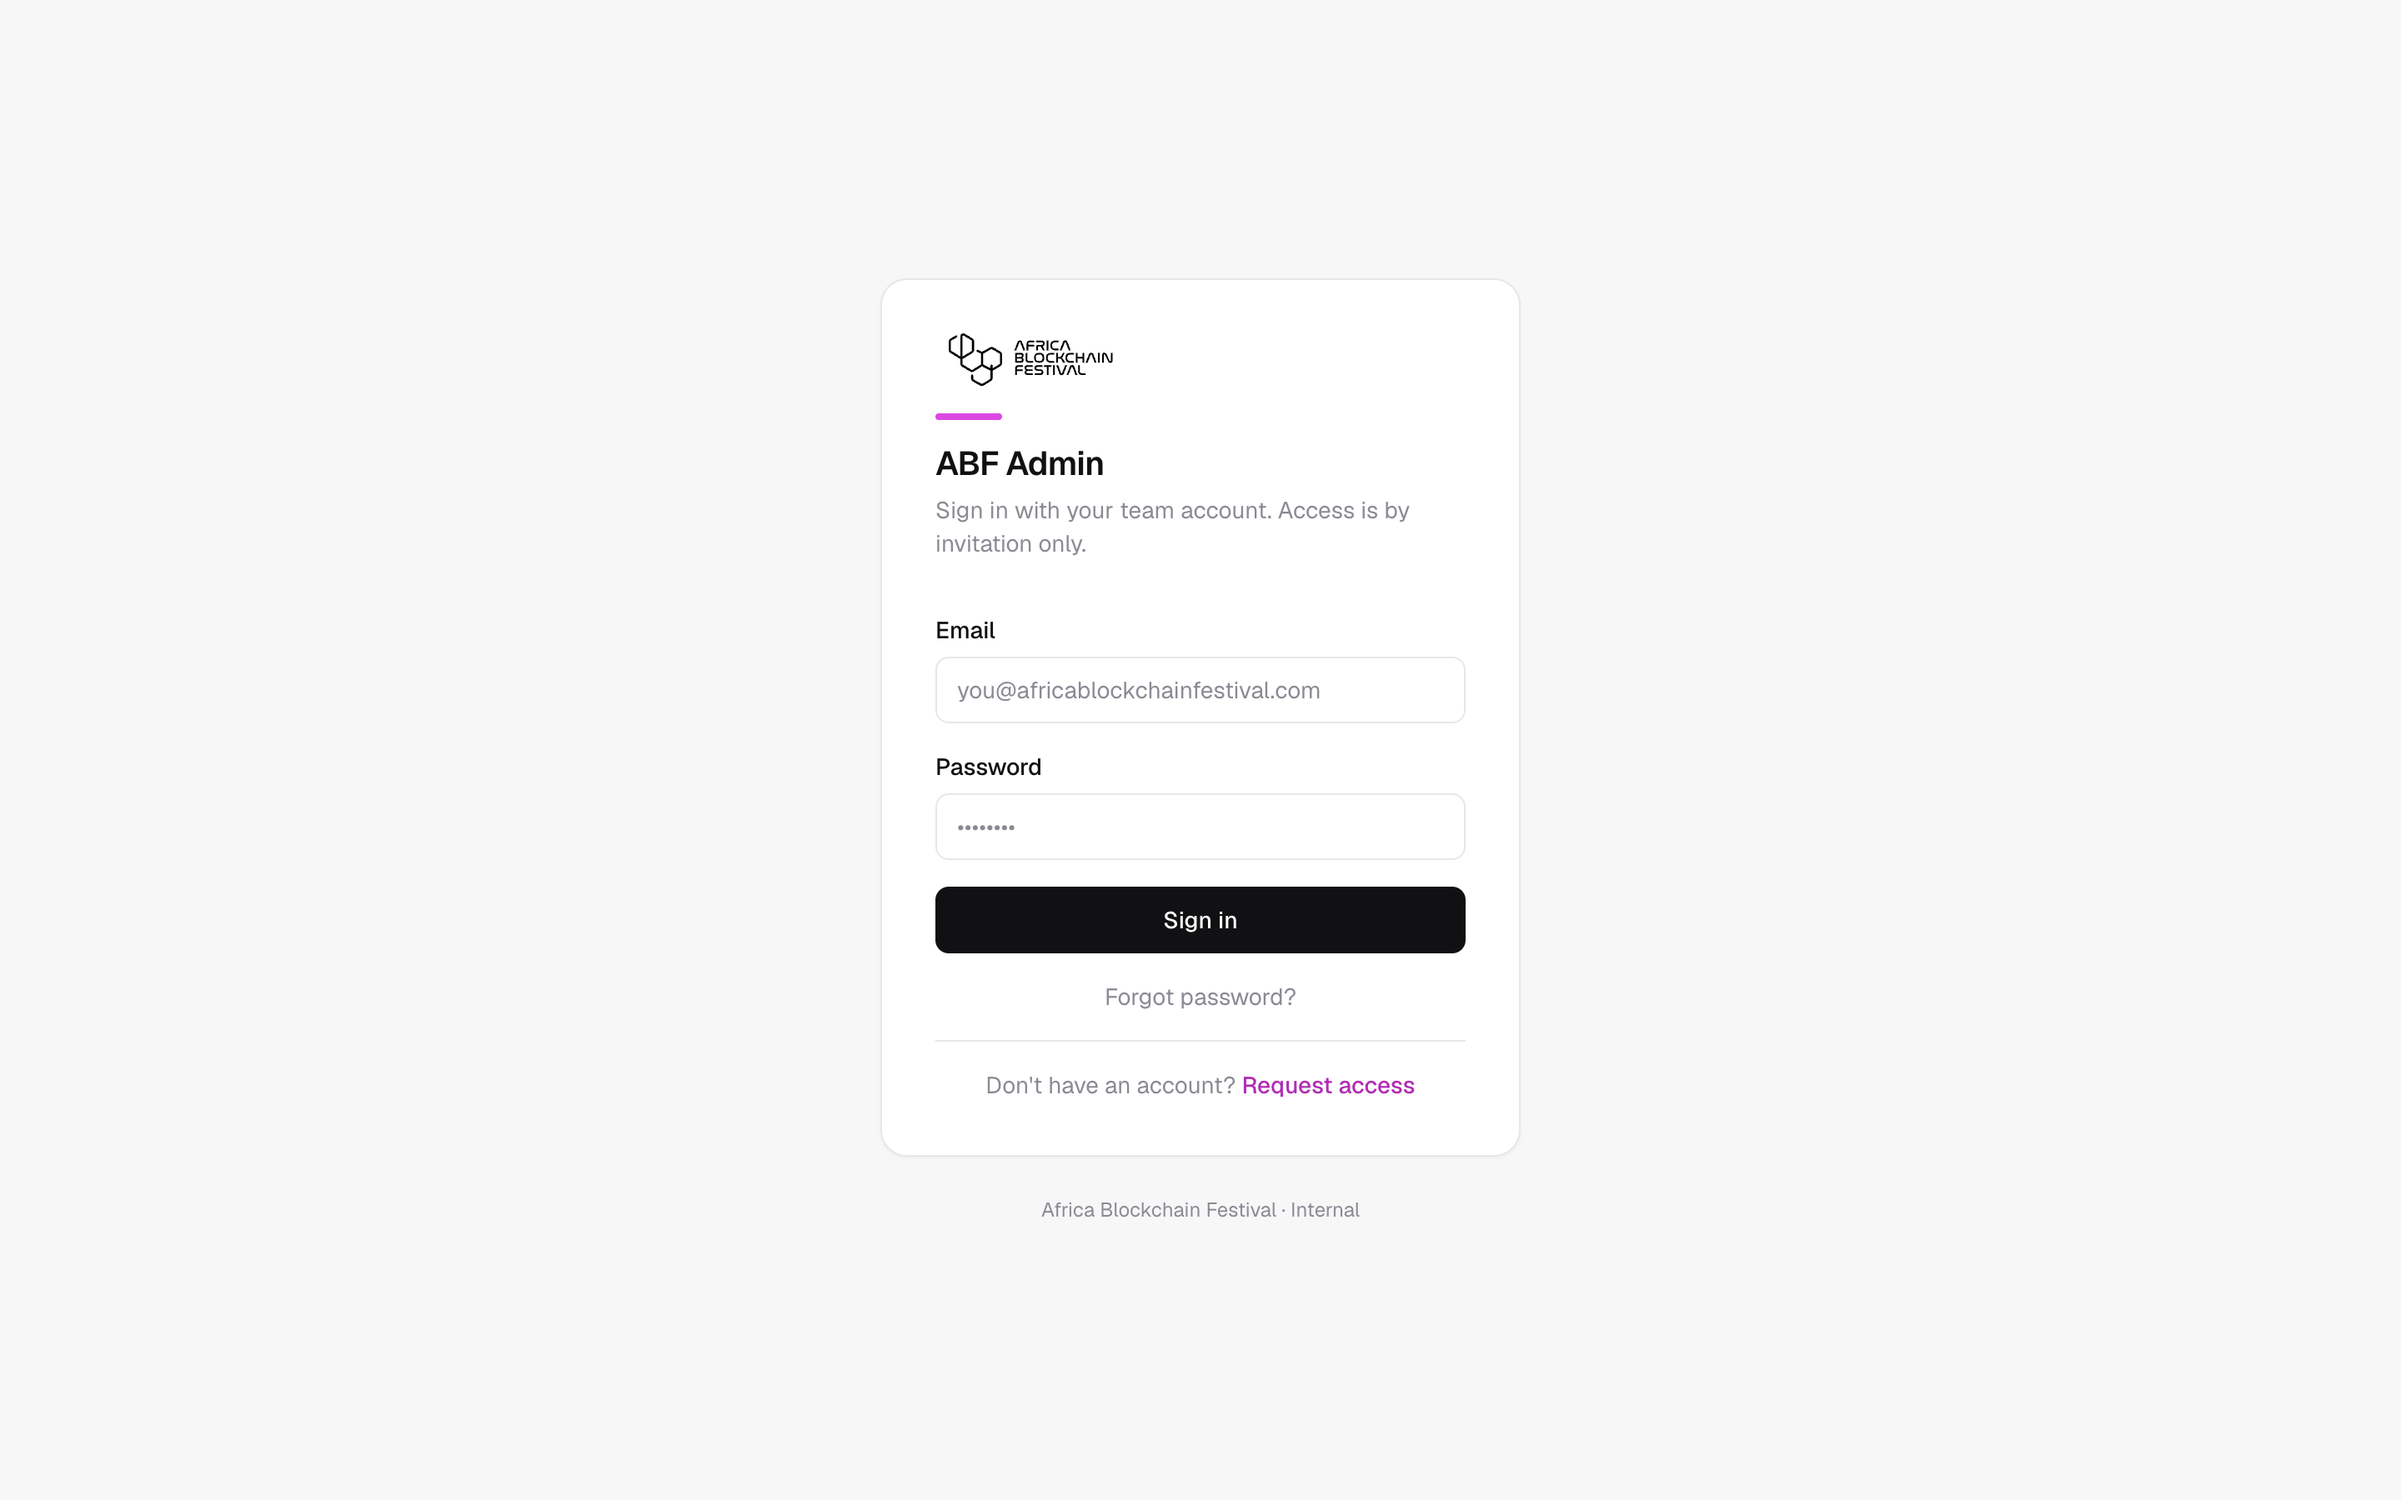
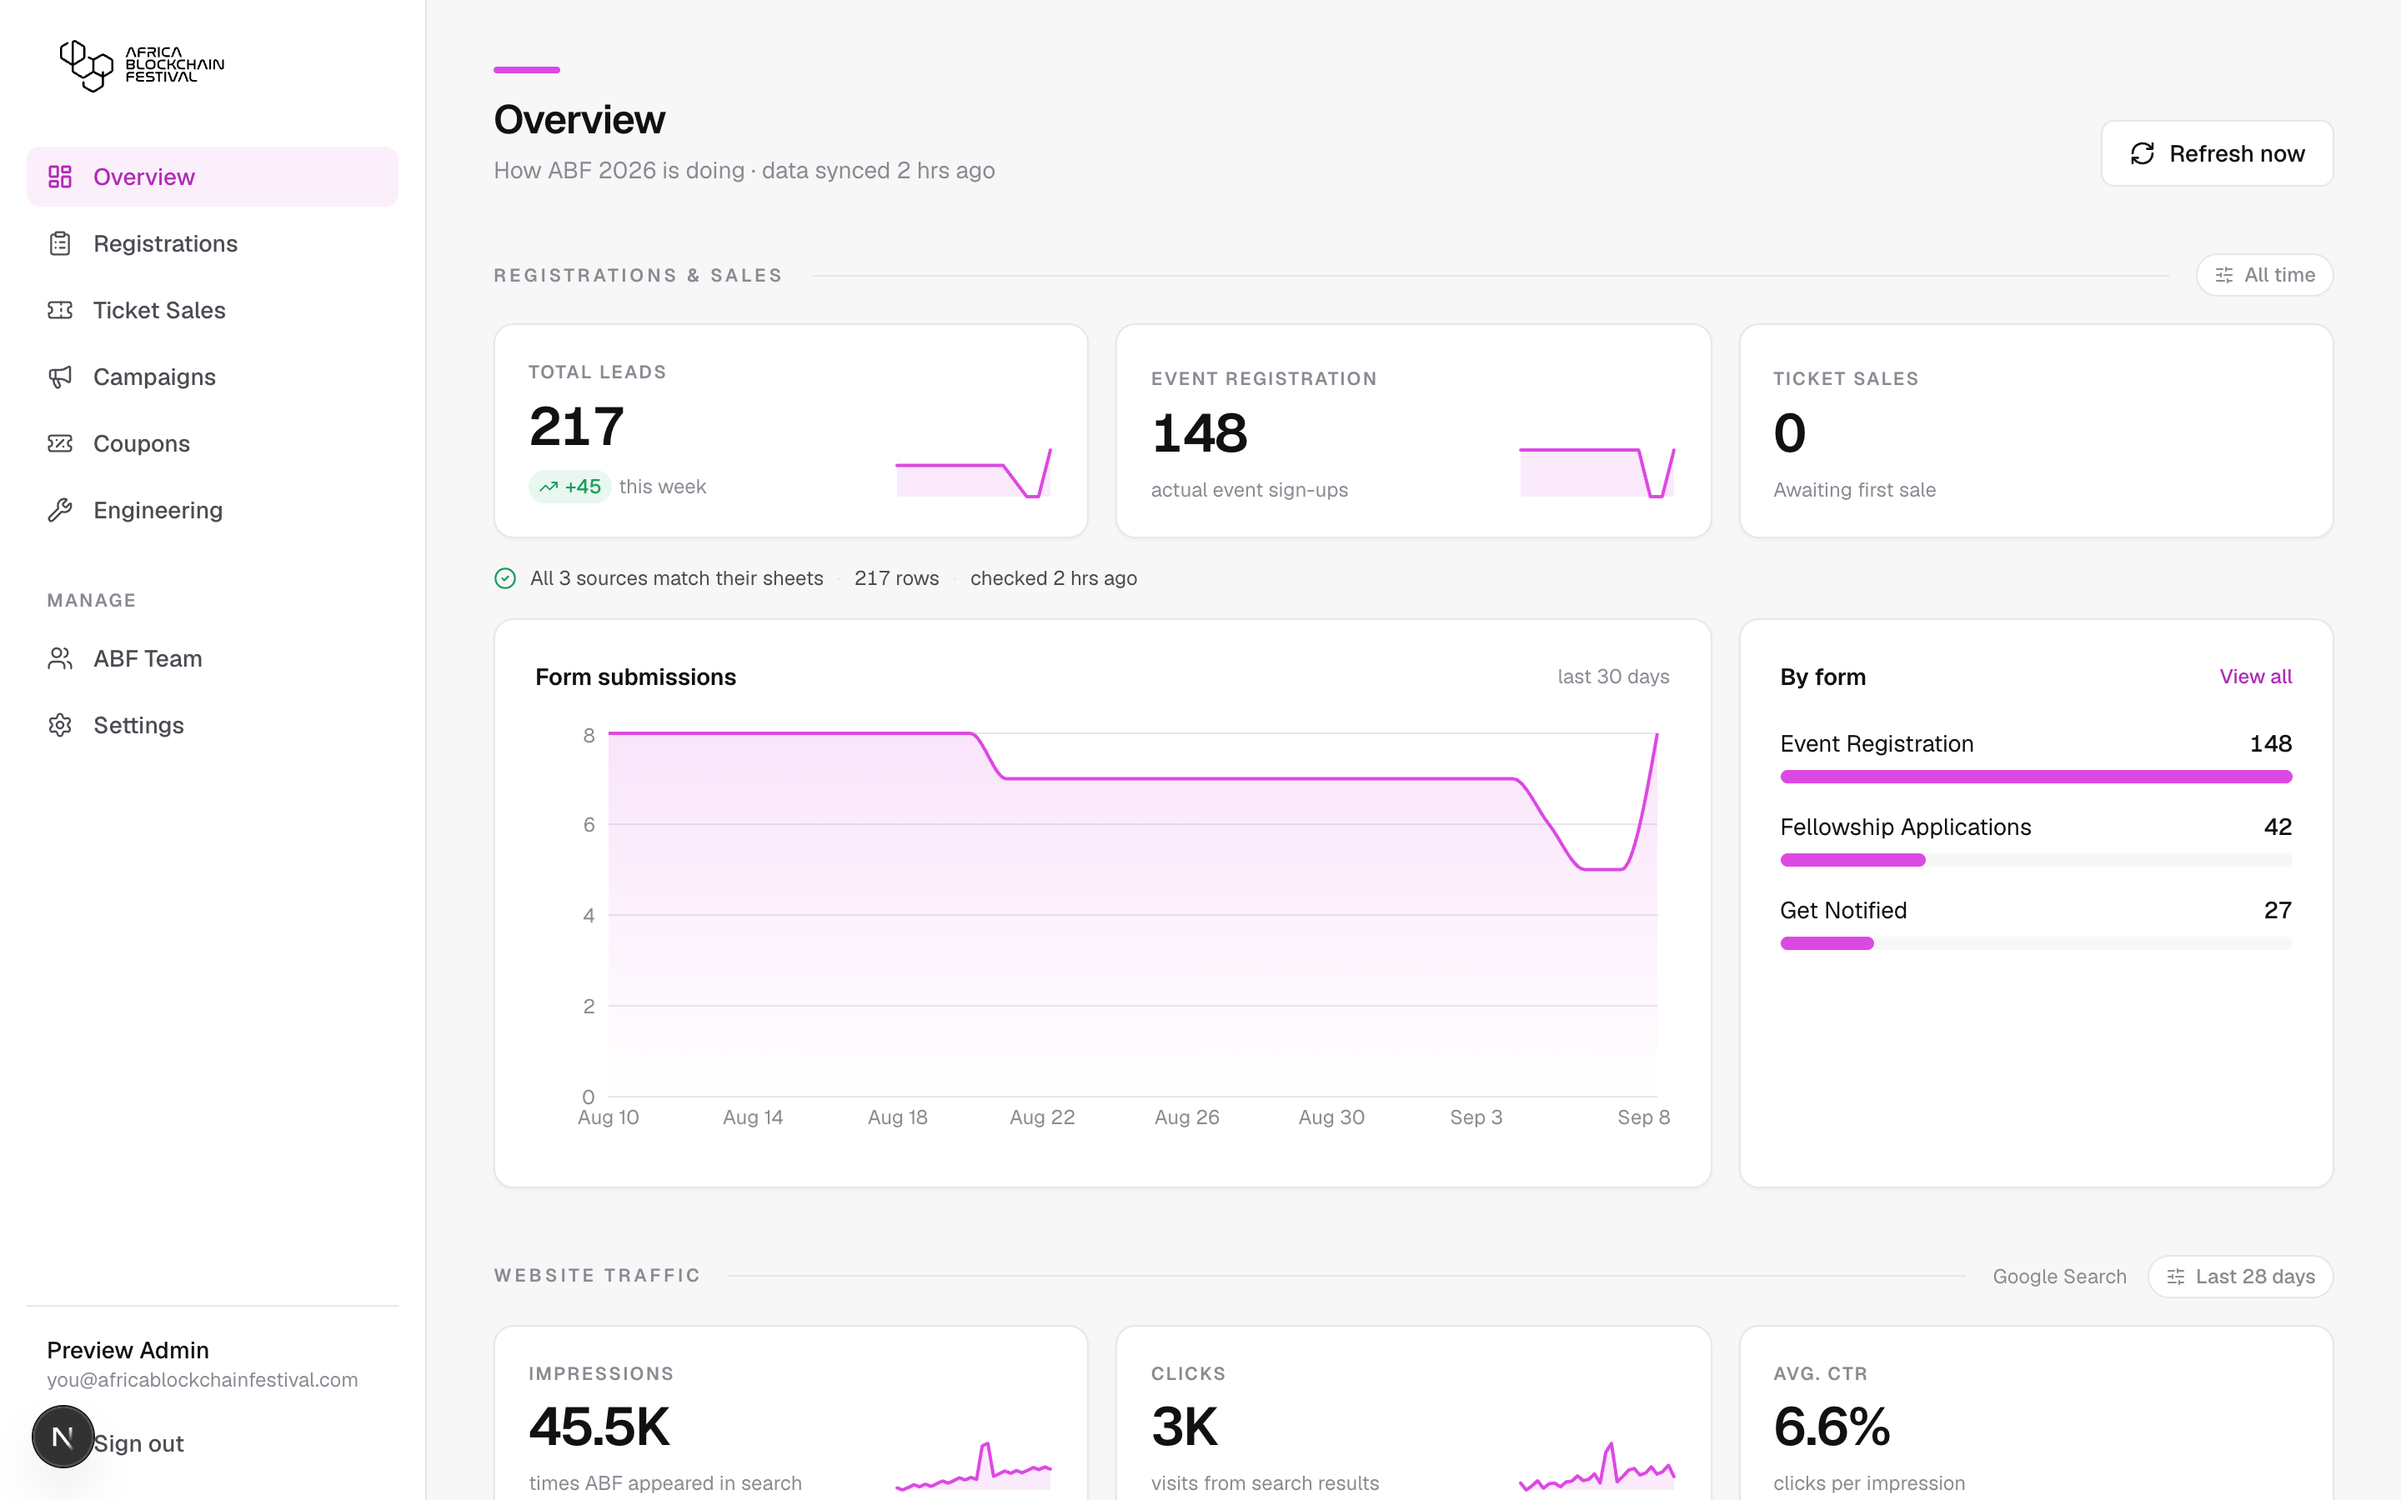
Add the admin as a second chapter on the festival case
The case showed a WordPress site and a checkout, which left the work
looking like page building. The tool the team actually runs the festival
from is a separate Next.js and TypeScript application on Supabase,
deployed independently of the site it reports on, and that is the part
that answers what someone hiring for product or design engineering is
asking.

The chapter argues the decisions rather than the feature list: sheets
stay the source of truth with a hashed snapshot sync and soft deletes,
attribution counts checkouts started as well as paid, coupons price on
the server so a code cannot be edited into a larger discount, and every
route carries a loading skeleton because each one renders per request.

Frames come from the application's own preview mode. The admin is behind
a login, and rendering sample data keeps real registrant names and
addresses out of a public page. Nothing about the ingest endpoints,
shared secrets or sheet identifiers appears here.

Stack and services now name Next.js, TypeScript and Supabase, which is
the signal the WordPress-only listing was losing.

diff --git a/africa-blockchain-festival.html b/africa-blockchain-festival.html
@@ -30,7 +30,7 @@
   "image": "https://sammiee.dev/img/work/abf.jpg",
   "dateCreated": "2025",
   "inLanguage": "en",
-  "keywords": "Web Design, Product Design, WordPress Development, Figma, WordPress",
+  "keywords": "Web Design, Product Design, WordPress Development, Full-stack Development, Figma, WordPress, Next.js, TypeScript, Supabase",
   "creator": {
     "@type": "Person",
     "name": "Samuel Fasipe",
@@ -144,7 +144,7 @@
       <dl class="case__facts">
         <div class="case__fact">
           <dt>Services</dt>
-          <dd><ul><li>Web Design</li><li>Product Design</li><li>WordPress Development</li></ul></dd>
+          <dd><ul><li>Web Design</li><li>Product Design</li><li>WordPress Development</li><li>Full-stack Development</li></ul></dd>
         </div>
         <div class="case__fact">
           <dt>Client</dt>
@@ -152,7 +152,7 @@
         </div>
         <div class="case__fact">
           <dt>Built with</dt>
-          <dd><ul><li>Figma</li><li>WordPress</li></ul></dd>
+          <dd><ul><li>Figma</li><li>WordPress</li><li>Next.js</li><li>TypeScript</li><li>Supabase</li></ul></dd>
         </div>
         <div class="case__fact">
           <dt>Year</dt>
@@ -382,6 +382,70 @@
             <picture>
               <source type="image/webp" srcset="/img/shots/africa-blockchain-festival-flow-4@900.webp 900w, /img/shots/africa-blockchain-festival-flow-4.webp 1600w" sizes="(max-width: 900px) 100vw, 88vw">
               <img src="/img/shots/africa-blockchain-festival-flow-4.webp" alt="Africa Blockchain Festival — Travel packages" width="1600" height="1000" loading="lazy" decoding="async">
+            </picture>
+          </div>
+        </figure>
+      </div>
+      <span class="rule" aria-hidden="true"></span>
+
+      <div class="case__approach">
+        <p class="case__label"><b>&bull;</b> The admin behind it</p>
+        <div>
+          <p>A festival runs on more than a website. This is the tool the team runs it from, and it is a separate application rather than a plugin: Next.js and TypeScript on Supabase, deployed independently of the WordPress site it reports on.</p>
+          <p>Registrations were arriving in Google Sheets, sales in the payment gateways, traffic in Search Console, and requests to me over WhatsApp. Four places, none of which answered the only question the team actually had, which was how the event is doing. The admin is one place that does, for the twenty or so people running it.</p>
+          <p>The sheets stay the source of truth, because that is where the team already works. Sync is a snapshot replace keyed on a row hash, so an edited row updates, a deleted row soft deletes rather than vanishing, and a row that reappears is restored instead of duplicated. The overview carries a line stating whether every source still matches its sheet, since a dashboard that quietly drifts from its source is worse than no dashboard.</p>
+          <p>Campaigns answers where paying buyers came from rather than where clicks came from. Every share link carries its own funnel, which is what lets one campaign handed to three teams be told apart; grouping by channel cannot do that. It counts checkouts started as well as paid, because a conversion rate without a denominator is just a sales figure.</p>
+          <p>Coupons are created here and priced on the server. The browser names a code and never an amount, so a discount cannot be edited into a larger one on its way to checkout, and a redemption counts on payment rather than on reaching the checkout, so an abandoned attempt cannot burn one of a limited run.</p>
+          <p>Every dashboard route renders per request, which without care means a click leaves the previous page on screen while the server works. Each route has a loading skeleton and the slower third-party calls sit in their own boundary, so one unhurried API cannot hold up the rest of the page. The screens below run on the application’s own preview data rather than live festival figures.</p>
+        </div>
+      </div>
+
+      <div class="case__pair">
+        <figure class="mock mock--browser">
+          <div class="mock__chrome">
+            <span class="mock__dots"><i></i><i></i><i></i></span>
+            <span class="mock__url">abfadmin.com</span>
+          </div>
+          <div class="mock__screen mock__screen--crop">
+            <picture>
+              <source type="image/webp" srcset="/img/shots/africa-blockchain-festival-admin-1@900.webp 900w, /img/shots/africa-blockchain-festival-admin-1.webp 1600w" sizes="(max-width: 900px) 100vw, 88vw">
+              <img src="/img/shots/africa-blockchain-festival-admin-1.webp" alt="Africa Blockchain Festival — Overview" width="1600" height="1000" loading="lazy" decoding="async">
+            </picture>
+          </div>
+        </figure>
+        <figure class="mock mock--browser">
+          <div class="mock__chrome">
+            <span class="mock__dots"><i></i><i></i><i></i></span>
+            <span class="mock__url">abfadmin.com/campaigns</span>
+          </div>
+          <div class="mock__screen mock__screen--crop">
+            <picture>
+              <source type="image/webp" srcset="/img/shots/africa-blockchain-festival-admin-2@900.webp 900w, /img/shots/africa-blockchain-festival-admin-2.webp 1600w" sizes="(max-width: 900px) 100vw, 88vw">
+              <img src="/img/shots/africa-blockchain-festival-admin-2.webp" alt="Africa Blockchain Festival — Campaign attribution" width="1600" height="1000" loading="lazy" decoding="async">
+            </picture>
+          </div>
+        </figure>
+        <figure class="mock mock--browser">
+          <div class="mock__chrome">
+            <span class="mock__dots"><i></i><i></i><i></i></span>
+            <span class="mock__url">abfadmin.com/coupons</span>
+          </div>
+          <div class="mock__screen mock__screen--crop">
+            <picture>
+              <source type="image/webp" srcset="/img/shots/africa-blockchain-festival-admin-3@900.webp 900w, /img/shots/africa-blockchain-festival-admin-3.webp 1600w" sizes="(max-width: 900px) 100vw, 88vw">
+              <img src="/img/shots/africa-blockchain-festival-admin-3.webp" alt="Africa Blockchain Festival — Coupons" width="1600" height="1000" loading="lazy" decoding="async">
+            </picture>
+          </div>
+        </figure>
+        <figure class="mock mock--browser">
+          <div class="mock__chrome">
+            <span class="mock__dots"><i></i><i></i><i></i></span>
+            <span class="mock__url">abfadmin.com/engineering</span>
+          </div>
+          <div class="mock__screen mock__screen--crop">
+            <picture>
+              <source type="image/webp" srcset="/img/shots/africa-blockchain-festival-admin-4@900.webp 900w, /img/shots/africa-blockchain-festival-admin-4.webp 1600w" sizes="(max-width: 900px) 100vw, 88vw">
+              <img src="/img/shots/africa-blockchain-festival-admin-4.webp" alt="Africa Blockchain Festival — Engineering requests" width="1600" height="1000" loading="lazy" decoding="async">
             </picture>
           </div>
         </figure>

diff --git a/about.html b/about.html
@@ -211,7 +211,7 @@
         <li data-reveal>
           <a href="/africa-blockchain-festival" data-cursor-tag="View project" data-cursor-color="#0895fa">
             <span class="about-page__work-name">Africa Blockchain Festival</span>
-            <span class="about-page__work-meta">Figma &amp;middot; WordPress</span>
+            <span class="about-page__work-meta">Figma &amp;middot; WordPress &amp;middot; Next.js &amp;middot; TypeScript &amp;middot; Supabase</span>
             <span class="about-page__work-year">2025–2026</span>
           </a>
         </li>
